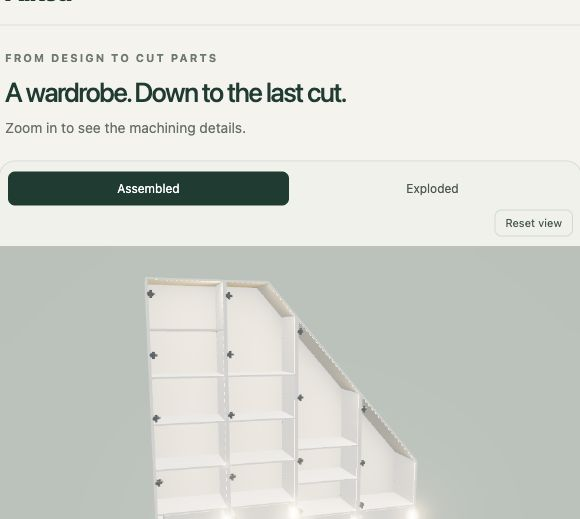
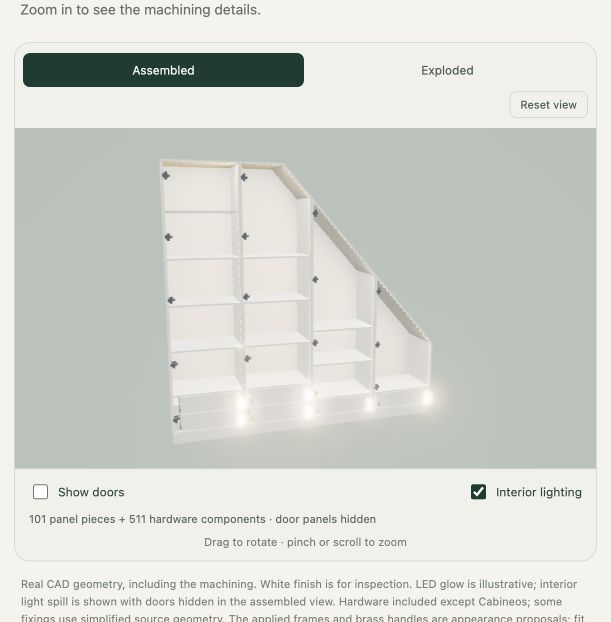
docs: frame the complete README lighting preview

diff --git a/docs/readme-3d.md b/docs/readme-3d.md
@@ -418,9 +418,14 @@ Patrick requests visible light on the surrounding panels, beyond glowing strips.
 
 - [x] Capture the approved golden illumination from the published viewer.
 - [x] Add the linked image and describe the Interior lighting control.
-- [ ] Verify the rendered README and push documentation.
+- [x] Verify the rendered README and push documentation.
 
 52. Patrick requested adding the approved lighting to the README. Added a
     screenshot of the live viewer, linked to the interactive model, and concise
     on/off instructions. Retained existing machining and framed-door images.
     Labelled lighting as illustrative rather than product output validation.
+
+53. GitHub renders the lighting paragraph and linked image. Corrected the
+    initial screenshot crop to include the complete wardrobe and lighting
+    controls. Reviewed the saved image and Markdown diff. Changes are pushed
+    to PR #1; the default-branch README remains unchanged until merge.
